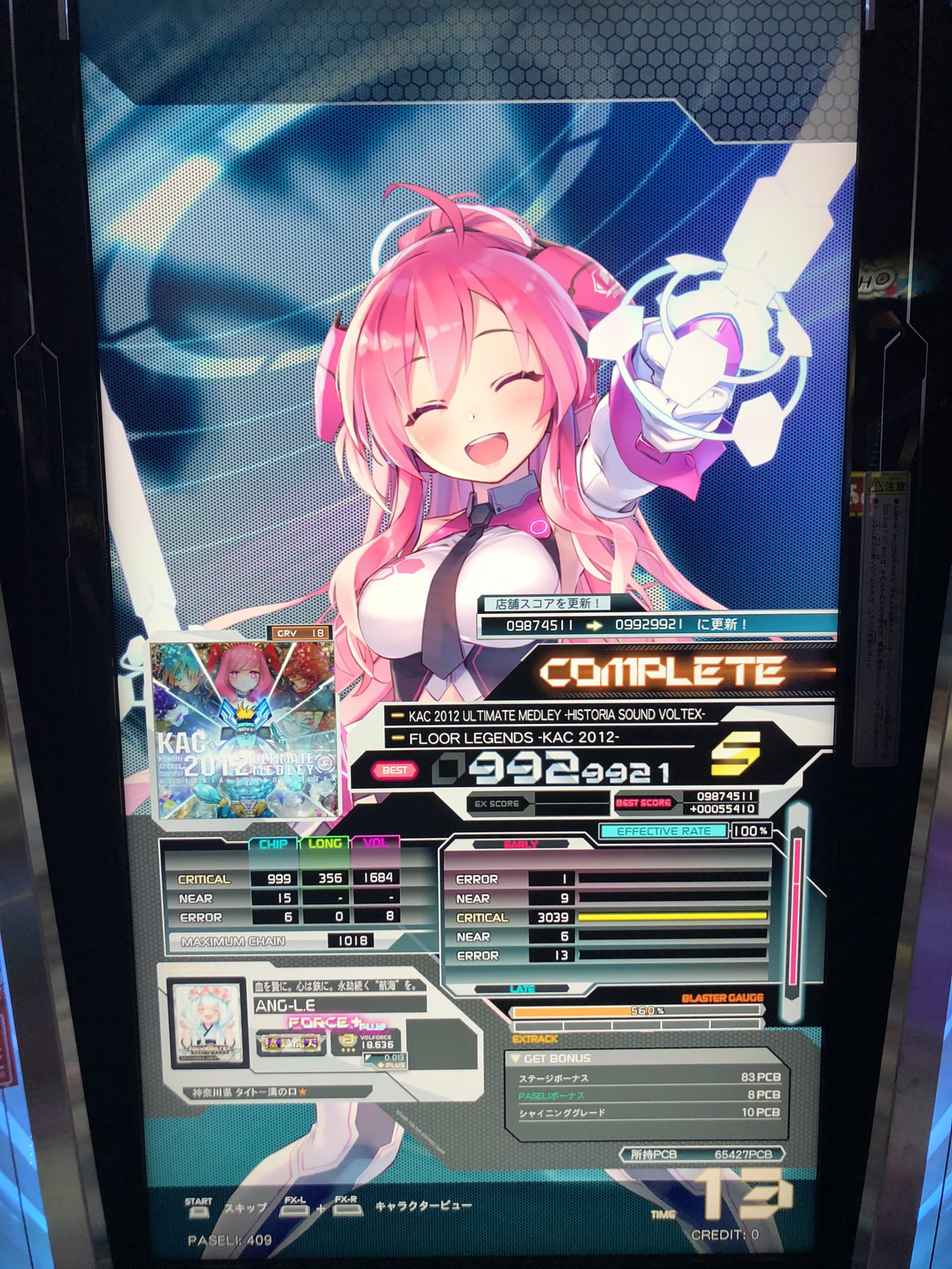
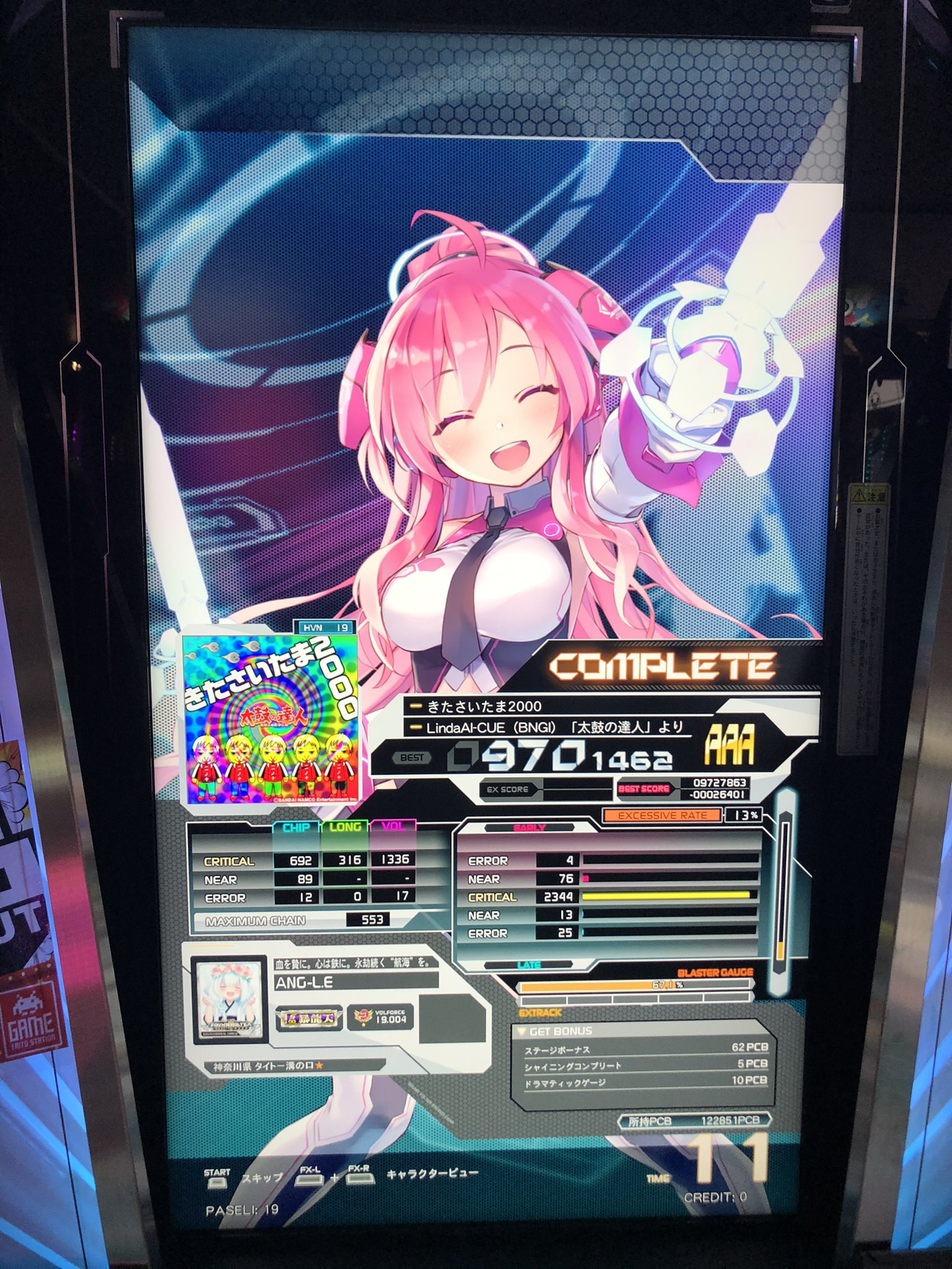
commit

diff --git a/MusicGame.html b/MusicGame.html
@@ -40,10 +40,10 @@
       <img src="image/Result/SDVX01.jpeg"　width="300" height="400" alt="　">
       <img src="image/Result/SDVX02.jpeg"　width="300" height="400" alt="　"><br><br>
       <b>
-      VOLFORCE...18.758/ELDORA<br>
+      VOLFORCE...19.004/CRIMSON<br>
       SKILL ANALYZER...銀枠暴龍天(EXCEED GEAR)</b><br>
-      暴龍天です！プレートも名前もカッコイイ...<br>
-      一応今のアケのメインですが、クリムゾン目指してゆる～くやってます。<br></p><br><br>    
+      一年前はシェンナだったのに遂にクリムゾンになっちまった...<br>
+      次の目標...どうしよっかなぁ。まぁ金枠暴龍天かな。<br></p><br><br>    
 
     
     <a id="CHUNITHM"></a>
